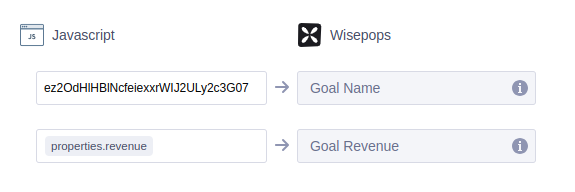
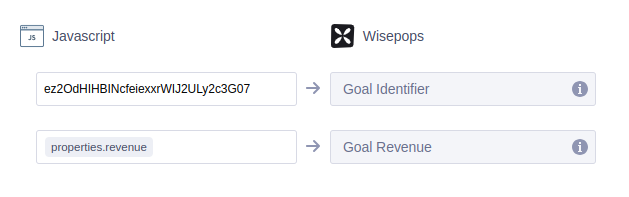
WIS-3633 Update field name Goal Identifier

diff --git a/src/connections/destinations/catalog/actions-wisepops/index.md b/src/connections/destinations/catalog/actions-wisepops/index.md
@@ -71,9 +71,9 @@ To track a JavaScript goal through Segment:
 1. [Create your JavaScript goal in Wisepops](https://id.wisepops.com/r/id/workspaces/_workspaceId_/goals){:target='_blank'}.
 2. Copy the goal identifier. It is a 32-character string visible after the goal is created:
    ![Wisepops goal identifier](images/wisepops-goal-id.png)
-3. In Segment, create a new mapping, with the action "Track Goal".
+3. In Segment, create a new mapping, with the action **Track Goal**.
 4. In the first section, configure when the goal should be tracked.
-5. In the third section, paste the goal identifier in the appropriate field:
+5. In the third section, paste the goal identifier in the **Goal Identifier** field:
    ![Wisepops goal mapping](images/wisepops-goal-mapping.png)
 6. Save the new mapping.
 
